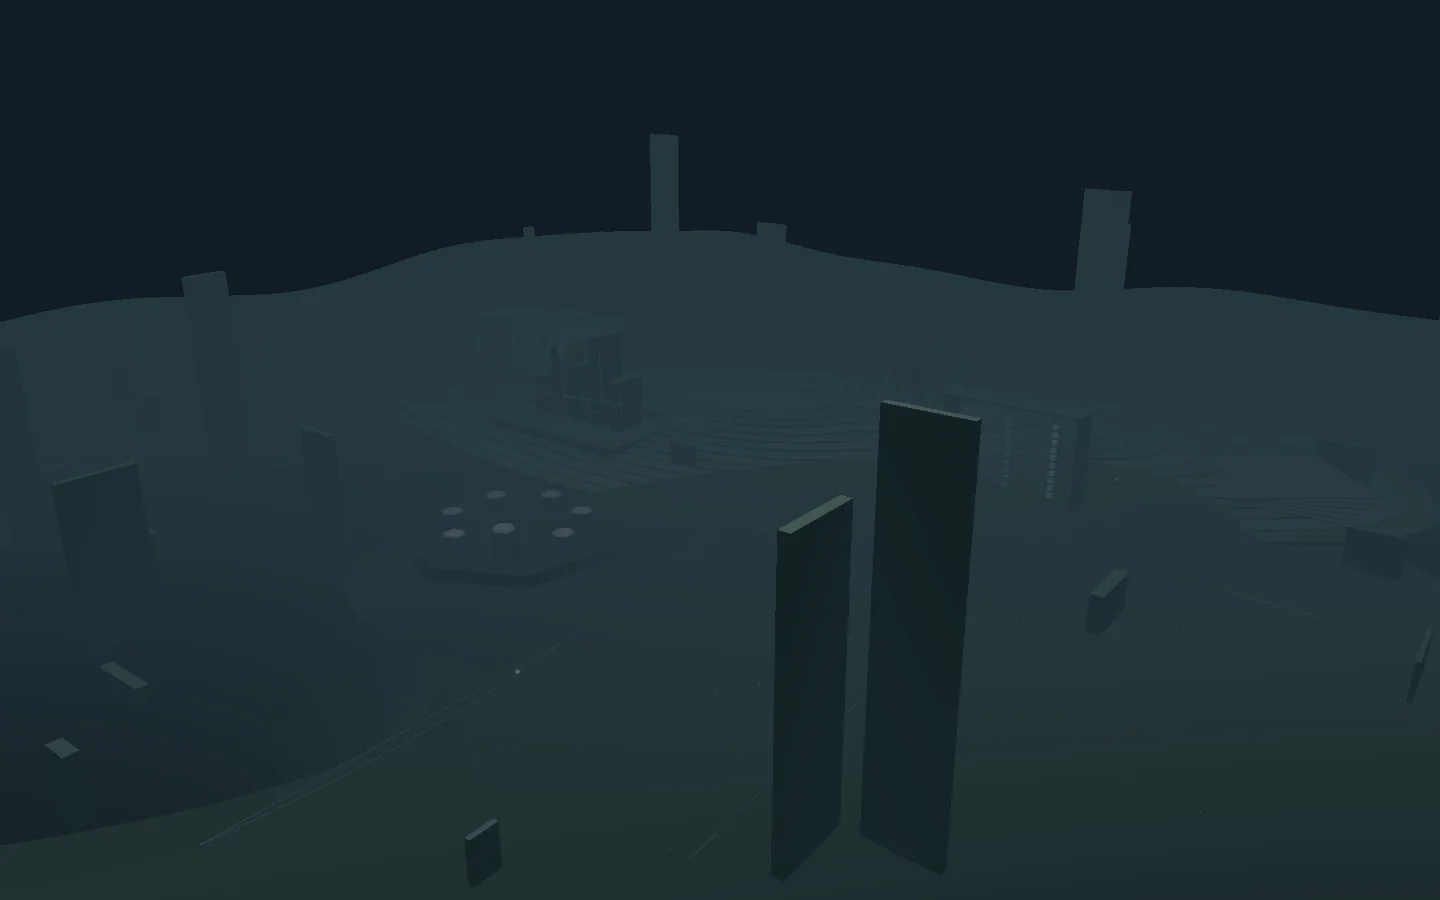
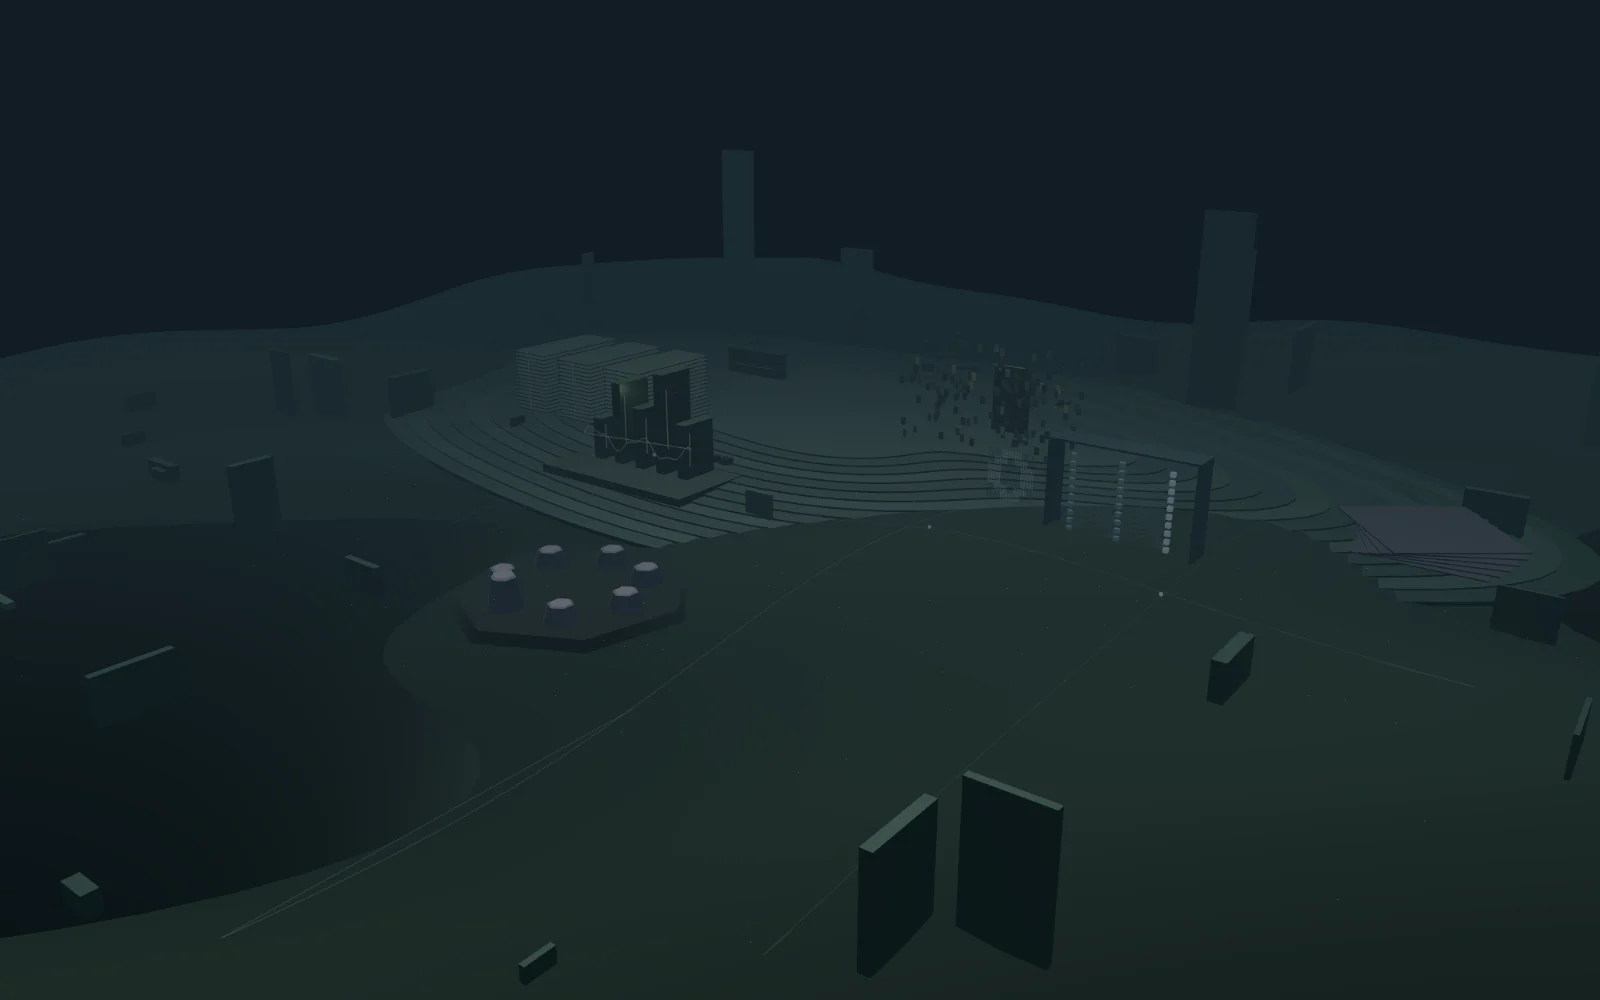
feat: preserve individual project identities in static scene mode

diff --git a/src/experience/WorldLayer.tsx b/src/experience/WorldLayer.tsx
@@ -1,3 +1,5 @@
+import { useWorld } from './WorldController';
+import { findProject } from '../data/projects';
 import { SoundControl } from '../components/SoundControl';
 import { lazy, Suspense, useCallback, useState } from 'react';
 import { useCapabilities } from '../hooks/useCapabilities';
@@ -6,6 +8,8 @@ import { readQuality, saveQuality, type Quality } from './quality';
 const ExperienceCanvas = lazy(() => import('./ExperienceCanvas'));
 export function WorldLayer() {
   const { realtime } = useCapabilities();
+  const { state, highlight } = useWorld();
+  const artwork = findProject(highlight ?? state);
   const [failed, setFailed] = useState(false);
   const [ready, setReady] = useState(false);
   const [quality, setQuality] = useState<Quality>(readQuality);
@@ -31,7 +35,12 @@ export function WorldLayer() {
         className={'world-layer ' + (ready && active ? 'world-ready' : 'world-static')}
         aria-hidden="true"
       >
-        <div className="world-artwork" />
+        <div
+          className="world-artwork"
+          style={
+            artwork ? { backgroundImage: `url(/images/world-${artwork.slug}.webp)` } : undefined
+          }
+        />
         {active && (
           <SceneBoundary onFailure={failure}>
             <Suspense fallback={null}>
